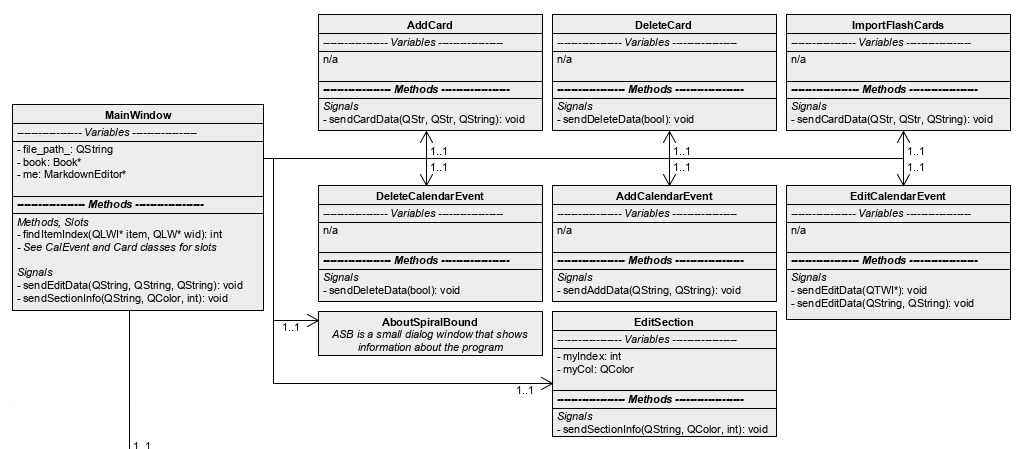
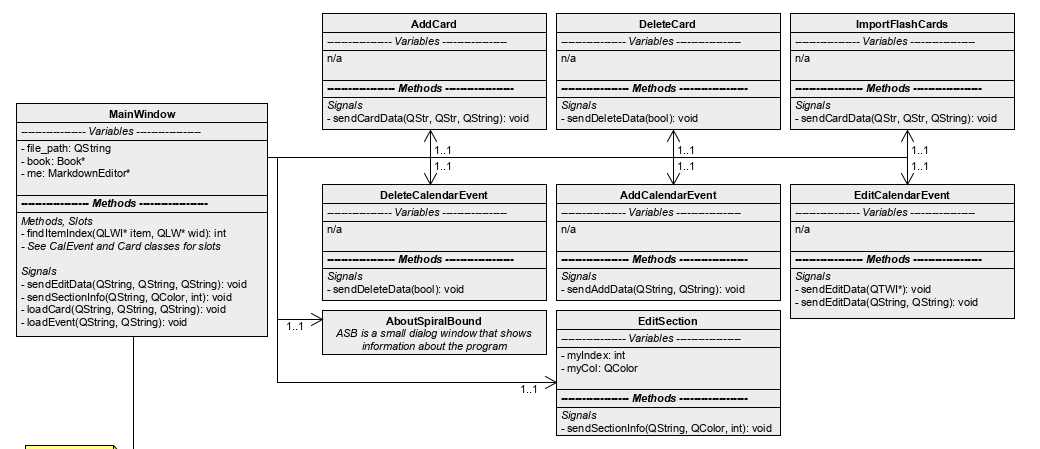
Wiki: Saving and Loading + Save, loading information made on its own page + Class diagram update from saving/loading + New high-level requirement + Class information update
TODO: Architecture diagram revision

Changed region(s): [[0.0, 0.0312, 0.9894, 0.9978], [0.0, 0.9666, 0.1546, 1.0]]

diff --git a/Wiki/Program Design/Data-Saving.md b/Wiki/Program Design/Data-Saving.md
@@ -1,0 +1,44 @@
+## Data Saving and Loading
+The application handles three significant sets of data:
+- Calendar events, in the form of dates, times, and names
+- Study cards, in the form of deck name, front, and backs
+- Notebook notes, in the form of sections, where each section contains pages
+
+There are two directories that are checked for on startup, created if they do not exist:
+- `<home>/.spiralbound/books/`, where books are stored
+- `<home>/.spiralbound/backup/`, where backups are stored during saving
+
+When the program attempts to load information, it stores information preliminarily in a list of Event and Deck structures. It only updates the interface with this information when everything has successfully been read in. If a failure occurs, then the data is simply discarded from the memory, leaving the present-loaded notebook intact.
+
+When the program attempts to save information, it generates a backup in the aforementioned directory, then tries to write all the files to the disk. Should any of these files fail to be written, such as being unable to be open or otherwise, then the saved content is destroyed by copying the backup back to the original directory, leaving the contents unchanged.
+
+### Restrictions
+When the user chooses to load a notebook, there are no restrictions. A file prompt opens, defaulting to the location `<home>/.spiralbound/books/`, and they are allowed to open a notebook from any directory on their machine or external devices; however, when they choose to save a file, they will be sandboxed to the aforementioned directory. In order to save a notebook outside of this directory, they must use the _Export_ utility in File > Export, and select the directory of which they want the book to be saved to. _(This will not update the program to save there; it will still use the sandboxed location on-disk.)_
+
+### Data Format
+Data is saved in the following, overarching form to the disk:
+```
+<Notebook root directory>
+- about.txt
+- cal.txt
+- /study/
+  - 1.csv
+  - 2.csv
+  - ...
+- /sections/
+  - 1
+    - about.txt
+    - pg-01.txt
+    ...
+  - ...
+```
+The notebook's root directory is a subdirectory in `<home>/.spiralbound/books`, and stores all information. It contains the following files:
+- `about.txt`, or the name, author, and date of notebook creation, as well as the number of study decks that are in the book itself
+- `cal.txt`, or calendar events, where events are stored in the form of `<date>\n<name>\n<time>`, where `\n` represents a linebreak
+
+It contains the following directories:
+- `/study/`, or a list of CSV files that store the study decks, where the first line is the name of the deck, and the following lines are in the form `<n>,<front>,<back>`. The first parameter specifies where to split the front and back, not including the first comma and the value of n itself.
+  - For example, `4,CSS,Style Sheets` says to split four characters in, starting from the 'C'; as such, it will be split into **'CSS'** and **'Style Sheets'**
+- `/sections/`, or the content of the notebook itself, where each section is a subdirectory with the following contents:
+  - `about.txt`, or the name, color, and section summary
+  - `page-<n>.txt`, or text files specifying the page name, creation date, and content for the section in question

diff --git a/Wiki/Program Design/Architecture/Design-Classes.md b/Wiki/Program Design/Architecture/Design-Classes.md
@@ -1,6 +1,7 @@
 ## Classes, Functions, Files
 ### Main Window
 **Files**: mainwindow.cpp, mainwindow.h, mainwindow.ui, main.cpp
+**Structures**: Deck, Event _(contained in `Util.h`)_
 
 This trio of files is where most of the overarching interface design is located. This window contains the notebook, calendar, and study utility interfaces, and is where most, if not all, prompts should send data using signal emission. 
 
@@ -13,9 +14,9 @@ These nine source files are the central source for prompt windows for the calend
 **Files**: book.h/.cpp, section.h/.cpp, page.h/.cpp, ~~block.h/.cpp~~, util.h, markdowneditor.h/.cpp, editsection.h/.cpp/.ui
 **Testing**: unit_book.h/.cpp
 
-These source files are the main controller for the notebook data structure, allowing the construction, saving of (to string), and reading in (from string). The book class is instantiated in the main window, and will be handled primarily there.
+These source files are the main controller for the notebook data structure, allowing the construction, saving of (to string), and reading in (from string). The book class is instantiated in the main window, and will be handled primarily there. The class `markdowneditor` is instantiated, as well, in the main window, and is used to generate markdown formatting in that window.
 
-The class `markdowneditor` is instantiated, as well, in the main window, and is used to generate markdown formatting in that window. The `util` class provides helper functions that are used in the book data structure classes.
+The `util` class provides helper functions that are used in the book data structure classes. It also provides an Event and Deck data structure for usage in loading information from the disk.
 
 There is another class, `editsection`, that opens when a section entry is double-clicked. It allows the user to customize the name and the color of that section as viewed in the section-page structure. The main window handles the signals sent by this prompt.
 

diff --git a/Wiki/Program Design/Requirements/High Level.md b/Wiki/Program Design/Requirements/High Level.md
@@ -2,6 +2,7 @@
 - **HFG-01**: There should be a couple of different themes for the user to select, where these themes customize the appearance and display of notes, deadlines, etc.
 - **HNG-01**: SpiralBound shouldn't require greater than 512 MB of RAM, and should operate on Windows 7+, macOS, and Linux.
 - **HNG-02**: SpiralBound should be a portable application. That is, it should be able to be exported to a flashdrive and run on another computer with a similar operating system.
+- **HNG-03**: The notebook, calendar events, and study cards should all be saved within a central directory, and files should be stored appropriately such that there is less requirements to read/write data to the disk redundantly. _(For example, saving all of the book pages when only one has been modified.)_
 
 ## Calendar
 - **HFC-01**: Functional calendar display that shows a preview of the deadlines for the present week or month

diff --git a/Wiki/SIDEBAR.md b/Wiki/SIDEBAR.md
@@ -52,14 +52,18 @@
           <summary> Testing Executions </summary>
           <ul>
             <li> <a href="https://github.com/ECU-CSCI-4230/SpiralBound/wiki/Testing-3-21:-Notebook">3/21: Notebook</a>
-			<li> <a href="https://github.com/ECU-CSCI-4230/SpiralBound/wiki/Testing:-03-22:-Notebook">3/22: Notebook</a>
+		      	<li> <a href="https://github.com/ECU-CSCI-4230/SpiralBound/wiki/Testing:-03-22:-Notebook">3/22: Notebook</a>
           </ul>
         </details>
+        <ul>
+          <li> WIP
+        </ul>
       </blockquote>
-      <ul>
-        <li> WIP
-      </ul>
     </details>
+    <hr />
+    <ul>
+      <li> <a href="https://github.com/ECU-CSCI-4230/SpiralBound/wiki/Design:-Saving,-Loading">Saving and Loading</a>
+    </ul>
   </blockquote>
 </details>
 
